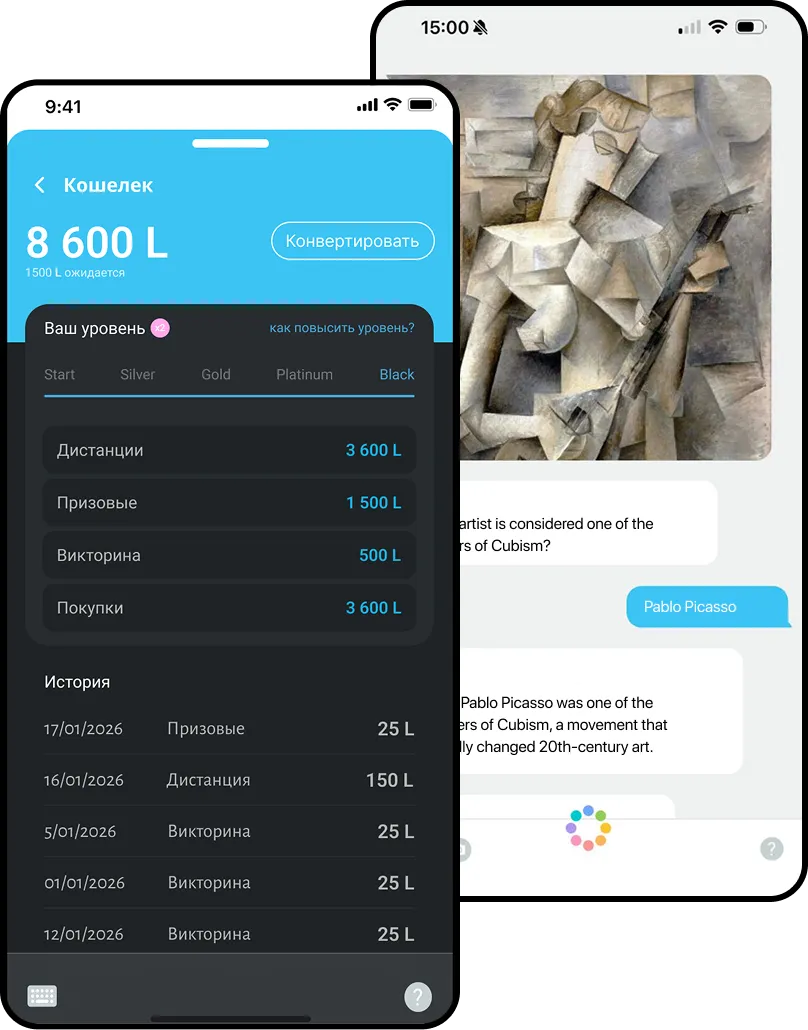
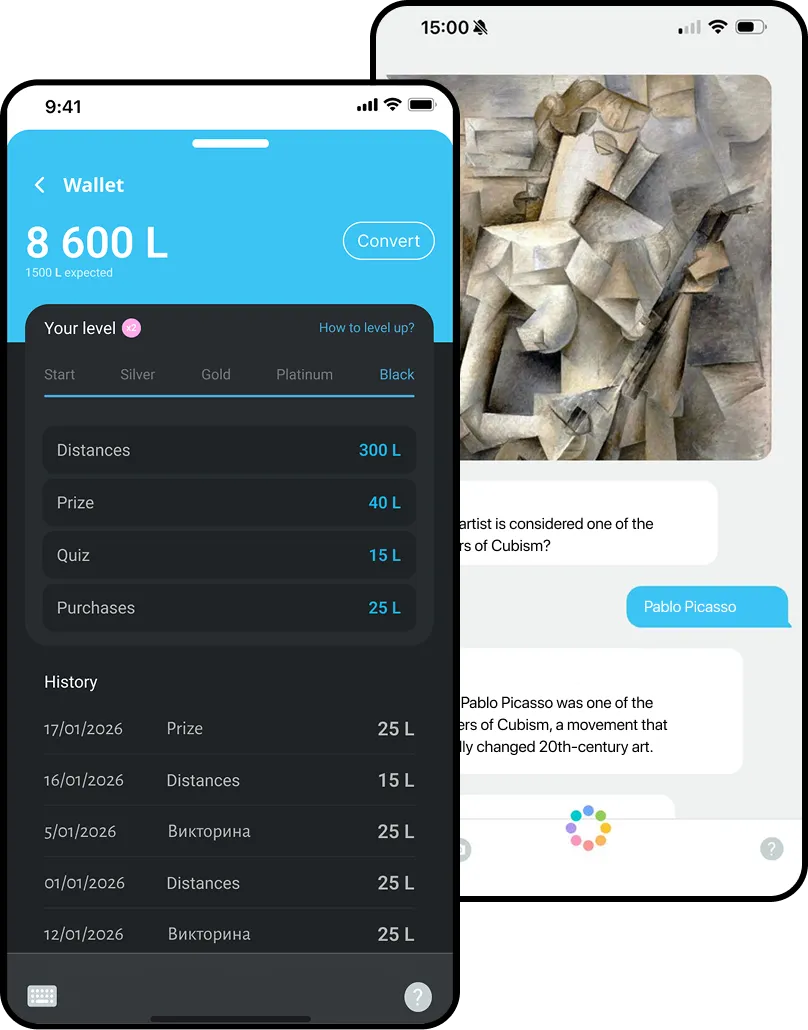
feat: images

diff --git a/en/index.html b/en/index.html
@@ -324,7 +324,7 @@
                 </p>
             </div>
             <img src="../Assets/Images/balance_awards/desktop_en.webp" alt="" class="max-lg:hidden w-[391px]">
-            <img src="../Assets/Images/balance_awards/mobile.webp" alt="" class="lg:hidden w-full">
+            <img src="../Assets/Images/balance_awards/mobile_en.webp" alt="" class="lg:hidden w-full">
         </div>
     </div>
 
@@ -460,7 +460,7 @@
                 </ul>
             </div>
             <div class="w-full flex items-center justify-center py-1 rounded-[16px] border border-[#383838] mt-8">
-                <img src="../Assets/Images/analytics/main.png" alt="" >
+                <img src="../Assets/Images/analytics/main_en.webp" alt="" >
             </div>
         </div>
     </div>
